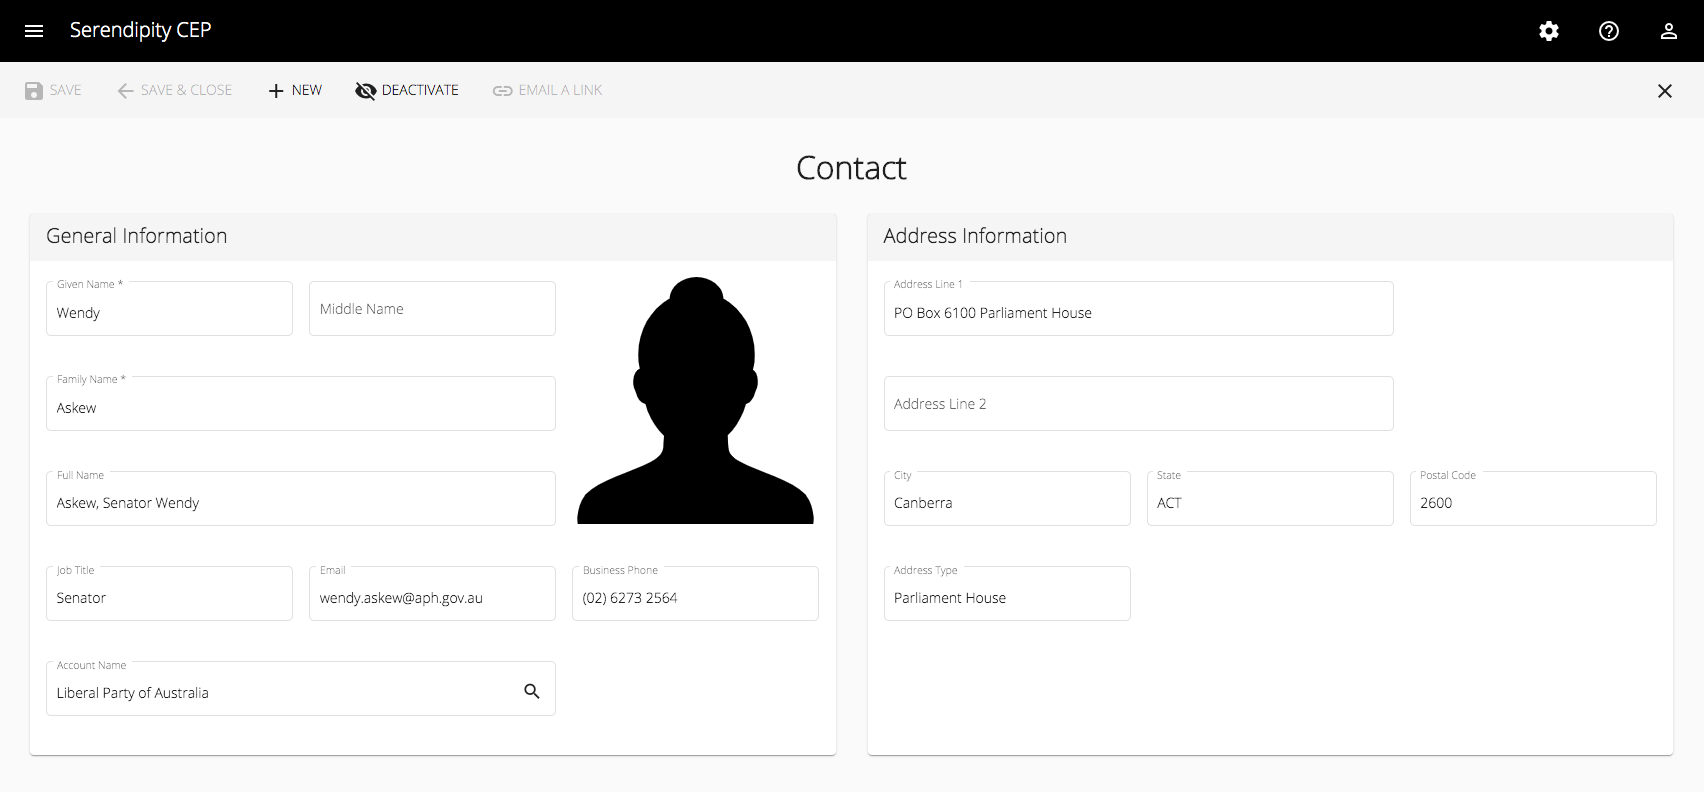
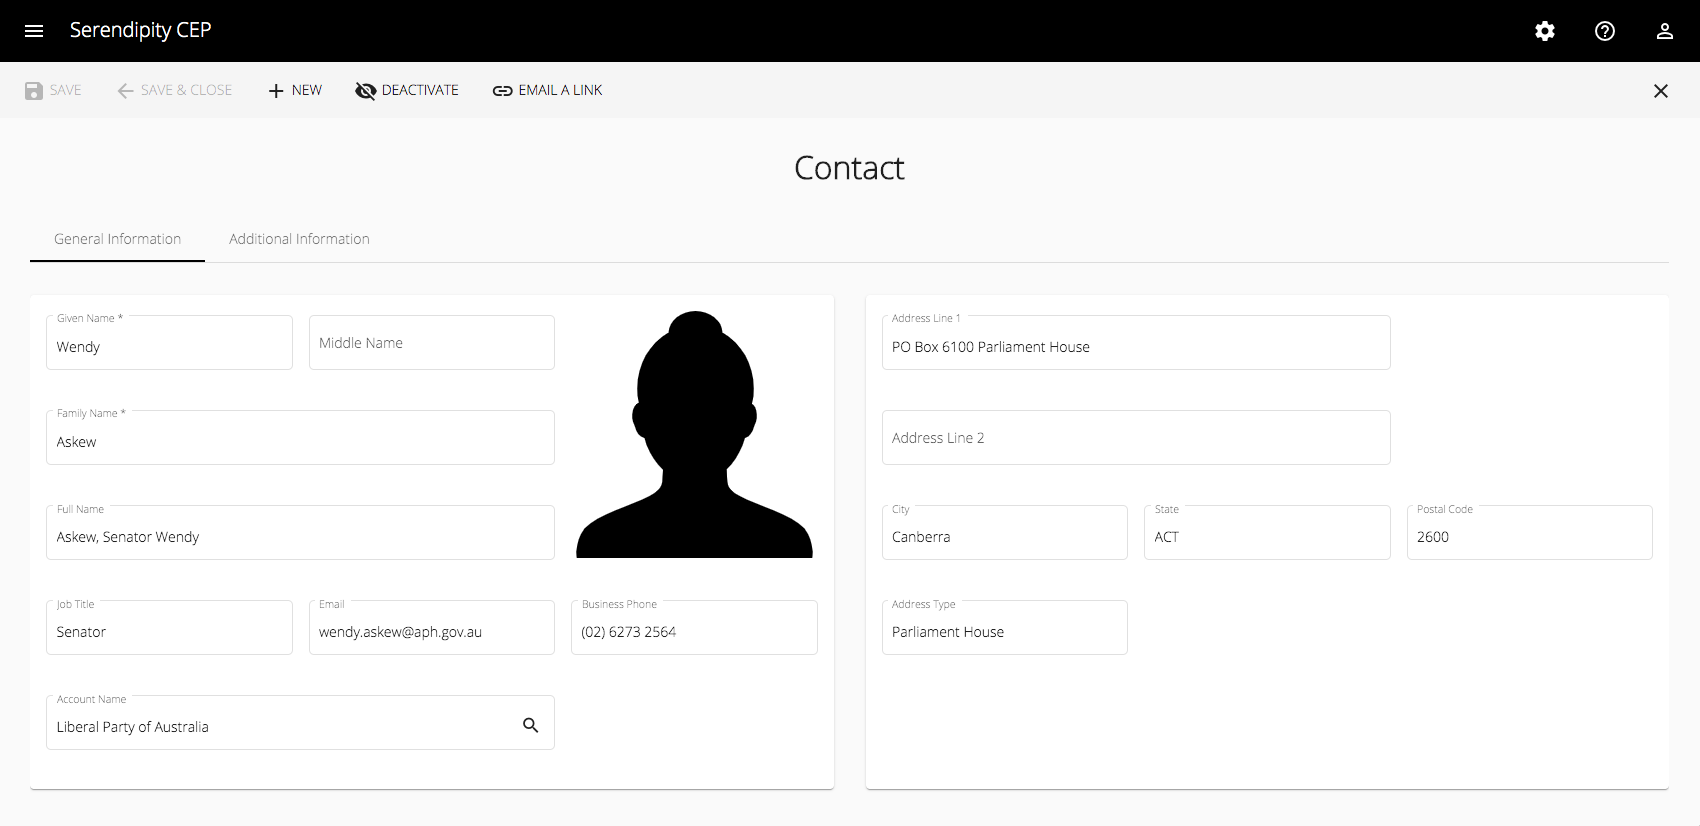
Updated the Accounts component

diff --git a/projects/sales/src/lib/services/email/email.service.ts b/projects/sales/src/lib/services/email/email.service.ts
@@ -1,0 +1,56 @@
+import { Injectable } from '@angular/core';
+import { HttpClient } from '@angular/common/http';
+
+import { Observable, of } from 'rxjs';
+import { catchError, tap } from 'rxjs/operators';
+
+import { LoggerService } from 'utils';
+
+@Injectable({
+  providedIn: 'root'
+})
+export class EmailService {
+
+  protected url: string;
+
+  constructor(private httpClient: HttpClient,
+              private logger: LoggerService) {
+
+    this.url = 'http://localhost:3001/api/email/';
+  }
+
+  public sendEmail(options: any) {
+
+    return this.httpClient.post(this.url, options).pipe(
+      tap(() => {
+        this.logger.info('EmailService: sendEmail() completed');
+      }),
+      catchError(this.handleError)
+    );
+
+  }
+
+  /*
+
+    public getFormMetadata(formId: string): Promise<DynamicFormControlModel[]> {
+    return this.httpClient.get<DynamicFormControlModel[]>(this.uriPrefix + formId + this.uriSuffix).toPromise();
+  }
+
+  */
+
+  protected handleError<T>(operation = 'operation', result?: T) {
+    return (error: any): Observable<T> => {
+
+      this.logger.info('ContactsService: handleError()');
+
+      // TODO: send the error to your remote logging infrastructure e.g., Sentry
+
+      // TODO: better job of transforming error for user consumption
+      this.logger.error(operation + ' failed: ' + error.message);
+
+      // Let the app keep running by returning an empty result (i.e., [])
+      return of(result as T);
+    };
+  }
+
+}

diff --git a/projects/sales/src/lib/components/contact/contact.component.ts b/projects/sales/src/lib/components/contact/contact.component.ts
@@ -13,6 +13,8 @@ import { DynamicFormControlCustomEvent, DynamicFormModel, DynamicFormService } f
 import { ContactsService } from '../../services/contacts/contacts.service';
 import { Contact } from '../../models/contact';
 
+import { EmailService } from '../../services/email/email.service';
+
 import { CONTACTS } from '../../models/constants';
 import { CONTACT_ADDRESS_INFORMATION_GROUP, CONTACT_GENERAL_INFORMATION_GROUP } from '../../models/form-ids';
 
@@ -66,6 +68,7 @@ export class ContactComponent implements OnInit, OnDestroy {
               private contactsService: ContactsService,
               private dynamicFormService: DynamicFormService,
               private dialogService: DialogService,
+              private emailService: EmailService,
               private snackBar: MatSnackBar,
               private logger: LoggerService) { }
 
@@ -254,6 +257,12 @@ export class ContactComponent implements OnInit, OnDestroy {
       }
 
     });
+
+  }
+
+  public onEmail() {
+
+    this.logger.info('ContactComponent: onEmail()');
 
   }
 

diff --git a/projects/sales/src/lib/services/email/email.service.spec.ts b/projects/sales/src/lib/services/email/email.service.spec.ts
@@ -1,0 +1,12 @@
+import { TestBed } from '@angular/core/testing';
+
+import { EmailService } from './email.service';
+
+describe('EmailService', () => {
+  beforeEach(() => TestBed.configureTestingModule({}));
+
+  it('should be created', () => {
+    const service: EmailService = TestBed.get(EmailService);
+    expect(service).toBeTruthy();
+  });
+});

diff --git a/projects/sales/src/lib/components/contact/contact.component.html b/projects/sales/src/lib/components/contact/contact.component.html
@@ -36,7 +36,7 @@
     {{ 'DEACTIVATE' | translate }}
   </button>
 
-  <button mat-button class="crm-command-bar-button" [disabled]="true">
+  <button mat-button class="crm-command-bar-button" (click)="onEmail()">
     <mat-icon>link</mat-icon>
     {{ 'EMAIL_A_LINK' | translate }}
   </button>
